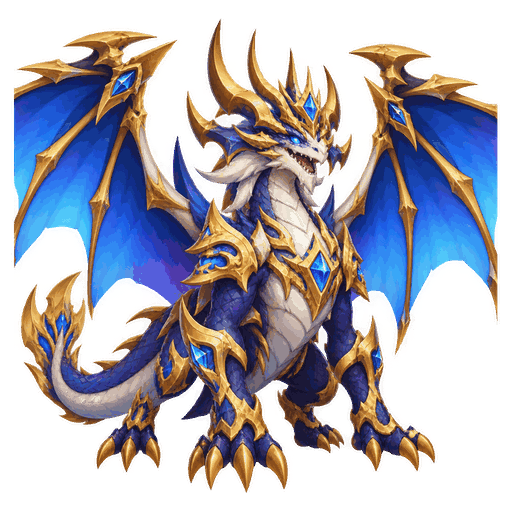
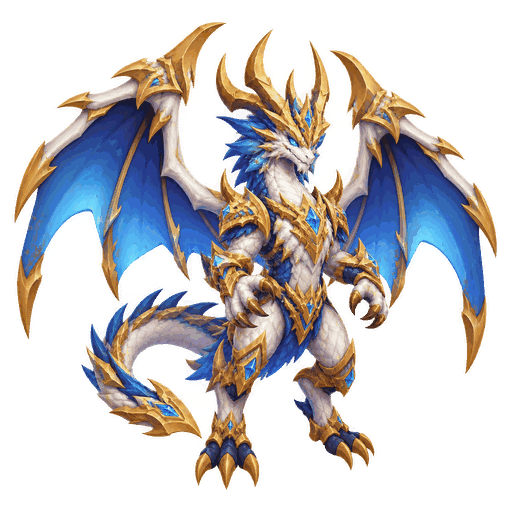
가장자리가 잘린 소환수 그림 13장 다시 그림(드래곤·와이번 날개 등), 그림 버전 3

diff --git a/index.html b/index.html
@@ -683,7 +683,7 @@ body.rare{background:#15141c}
 <div class="circle altar hidden" id="circle"><div class="ring"><div class="mc"><img class="mc1" src="img/bg/circle.png?v=2" alt=""><img class="mc2" src="img/bg/circle.png?v=2" alt=""></div><div class="sparks"><i style="left:18%;animation-delay:0s"></i><i style="left:30%;animation-delay:0.6s"></i><i style="left:42%;animation-delay:1.1s"></i><i style="left:55%;animation-delay:0.3s"></i><i style="left:66%;animation-delay:0.9s"></i><i style="left:78%;animation-delay:1.4s"></i><i style="left:24%;animation-delay:1.7s"></i><i style="left:48%;animation-delay:2s"></i><i style="left:72%;animation-delay:0.5s"></i><i style="left:36%;animation-delay:1.3s"></i></div><div class="who" id="c_art"></div></div><div class="ctext" id="c_text">소환진이 빛나요</div><div class="info hidden" id="c_info"></div><div class="beam"></div><div class="flash"></div></div>
 <div class="toast" id="toast"></div>
 
-<script src="game.js?v=25"></script>
+<script src="game.js?v=26"></script>
 <script>
 const QS=[
  {q:"마을 다리가 끊겼어요. 뭐부터 할래요?",o:[["왜 끊겼는지 본다","workshop"],["배를 구해 온다","market"],["다친 사람부터 찾는다","clinic"],["돌아가는 길을 찾는다","trail"]]},

diff --git a/game.js b/game.js
@@ -187,7 +187,7 @@ function judge(b,ans){
  return {race,job,path,pow,elem,id,stages,base,skills};
 }
 
-const IMGV="2"; // 그림을 바꾸면 올린다 (브라우저 캐시 무효화)
+const IMGV="3"; // 그림을 바꾸면 올린다 (브라우저 캐시 무효화)
 const IMGKEY={"알":"egg","아기":"baby","씨앗":"seed","암석":"stone","물방울":"drop","데몬 씨앗":"demonseed","뼈대":"bones","흔적":"wisp","":"unknown"};
 function artWithImage(race,stage,elem){
  // 진화 단계 그림 → img/race/<종족명>.png → img/<형태>.png → SVG 순서. 파일이 없으면 자동으로 다음으로 넘어간다. 속성은 색으로.

diff --git a/battle.html b/battle.html
@@ -493,7 +493,7 @@ button{font-family:inherit;cursor:pointer}
 </div>
 <div class="toast" id="toast"></div>
 
-<script src="game.js?v=25"></script>
+<script src="game.js?v=26"></script>
 <script>
 function toast(t){const e=$("toast");e.textContent=t;e.classList.add("show");setTimeout(()=>e.classList.remove("show"),1800)}
 const UNDEAD=new Set(["스켈레톤","유령","뱀파이어","임프"]);
